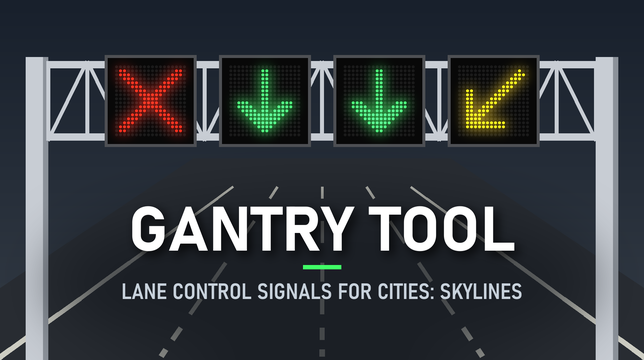
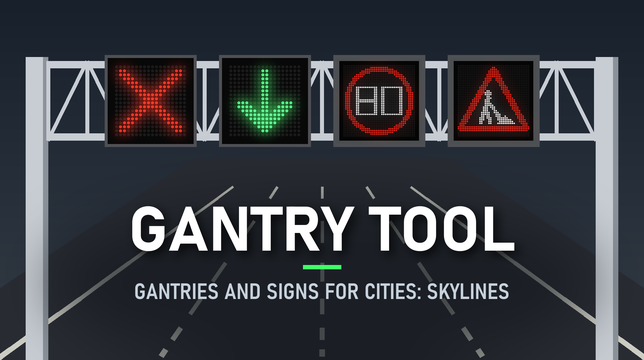
Version 1.1.0

Changed region(s): [[0.4969, 0.1528, 0.8385, 0.3972], [0.1863, 0.7639, 0.8075, 0.8556]]

diff --git a/src/Mod.cs b/src/Mod.cs
@@ -9,7 +9,7 @@ namespace GantryTool
 {
     public sealed class Mod : IUserMod
     {
-        public const string Version = "1.1.0-dev28";
+        public const string Version = "1.1.0";
 
         public string Name => "Gantry Tool";
 
